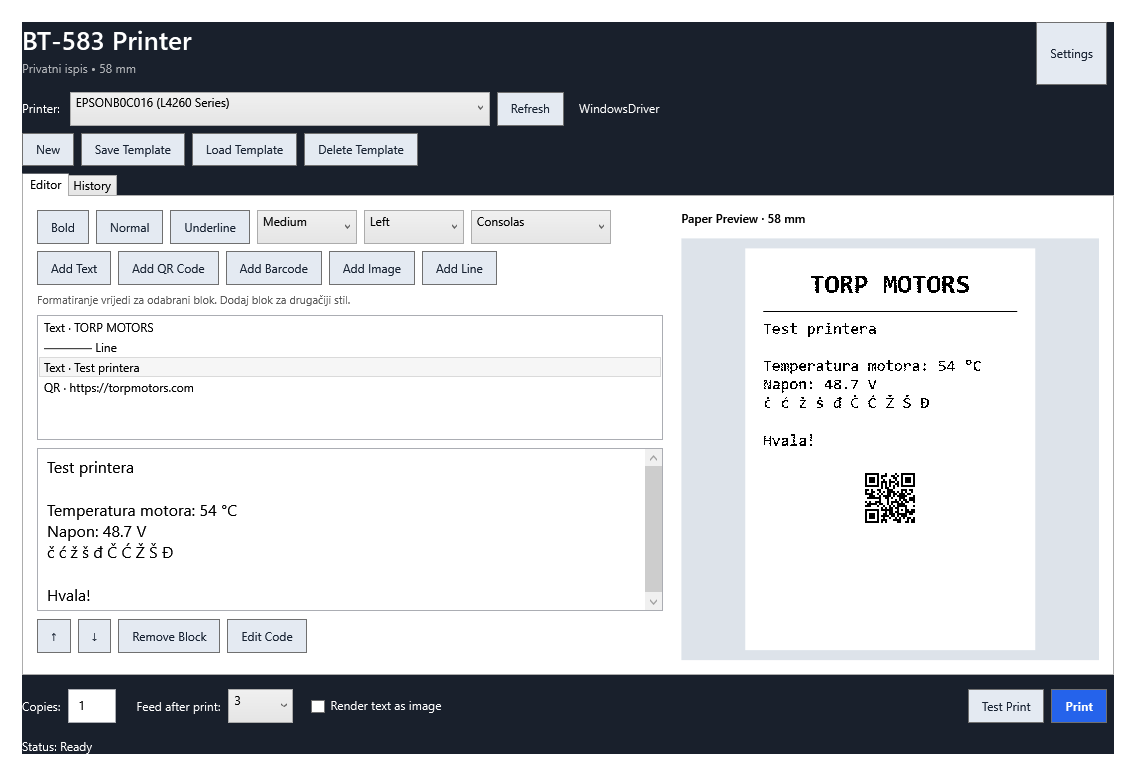
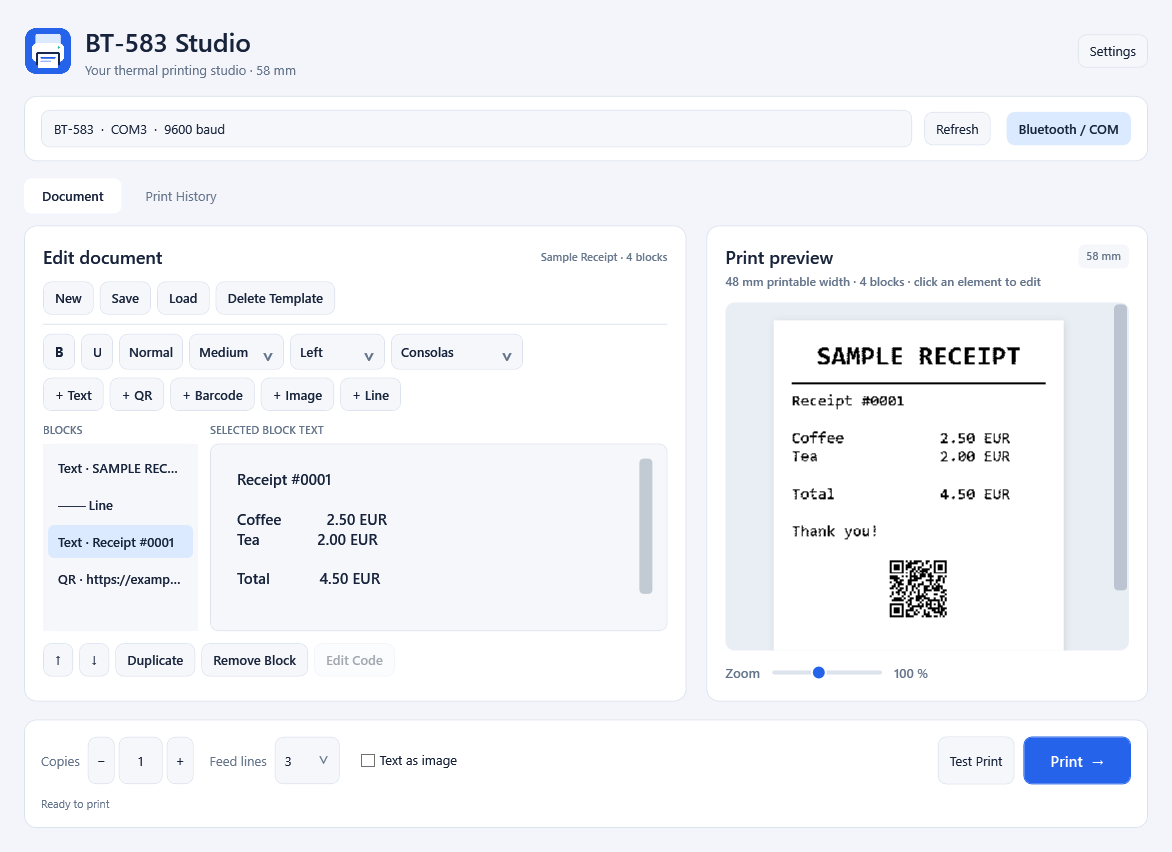
Replace branded screenshots with a generic sample receipt

diff --git a/tests/BT583Printer.Tests/FunctionalTests.cs b/tests/BT583Printer.Tests/FunctionalTests.cs
@@ -155,8 +155,8 @@ public sealed class FunctionalTests
                 var flags = System.Reflection.BindingFlags.Instance | System.Reflection.BindingFlags.NonPublic;
                 typeof(MainWindow).GetField("document", flags)!.SetValue(window, new Document
                 {
-                    Name = "Motor Test",
-                    Elements = [new TextElement { Text = "TORP MOTORS", Bold = true, Alignment = Alignment.Center, Size = TextSize.Large }, new SeparatorElement(), new TextElement { Text = "Printer test\n\nMotor temperature: 54 °C\nVoltage: 48.7 V\nč ć ž š đ Č Ć Ž Š Đ\n\nThank you!" }, new QrCodeElement { Content = "https://torpmotors.com", Alignment = Alignment.Center, Size = TextSize.Small }]
+                    Name = "Sample Receipt",
+                    Elements = [new TextElement { Text = "SAMPLE RECEIPT", Bold = true, Alignment = Alignment.Center, Size = TextSize.Large }, new SeparatorElement(), new TextElement { Text = "Receipt #0001\n\nCoffee           2.50 EUR\nTea              2.00 EUR\n\nTotal            4.50 EUR\n\nThank you!" }, new QrCodeElement { Content = "https://example.com/receipt/0001", Alignment = Alignment.Center, Size = TextSize.Small }]
                 });
                 typeof(MainWindow).GetMethod("ReloadBlocks", flags)!.Invoke(window, new object[] { 2 });
                 typeof(MainWindow).GetMethod("UpdatePreview", flags)!.Invoke(window, null);
